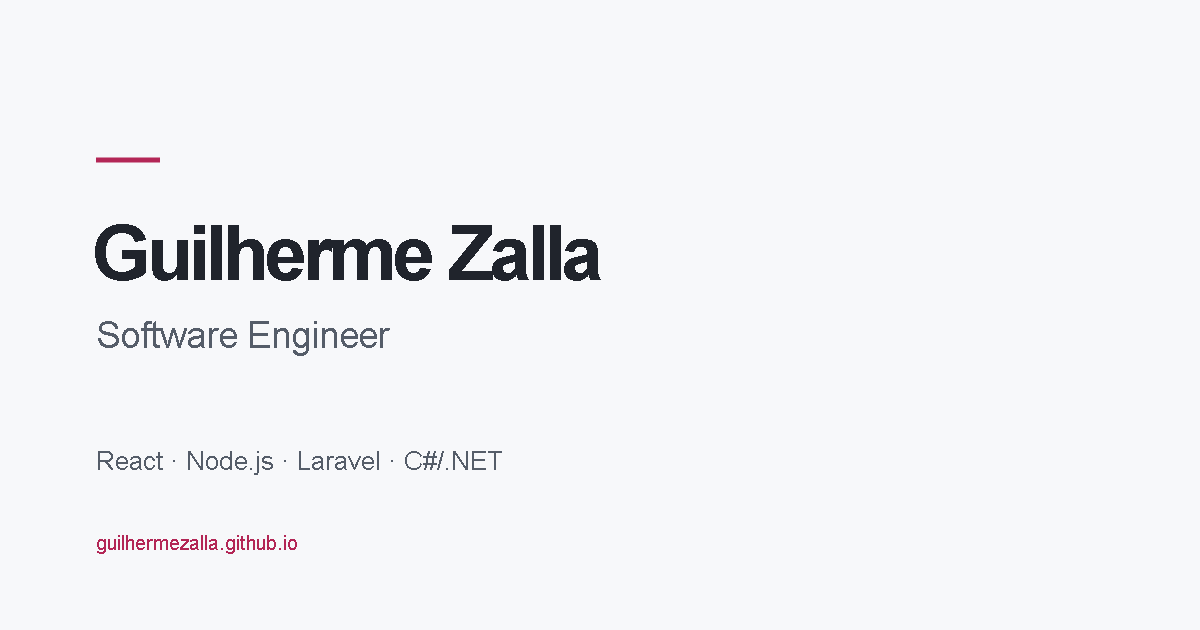
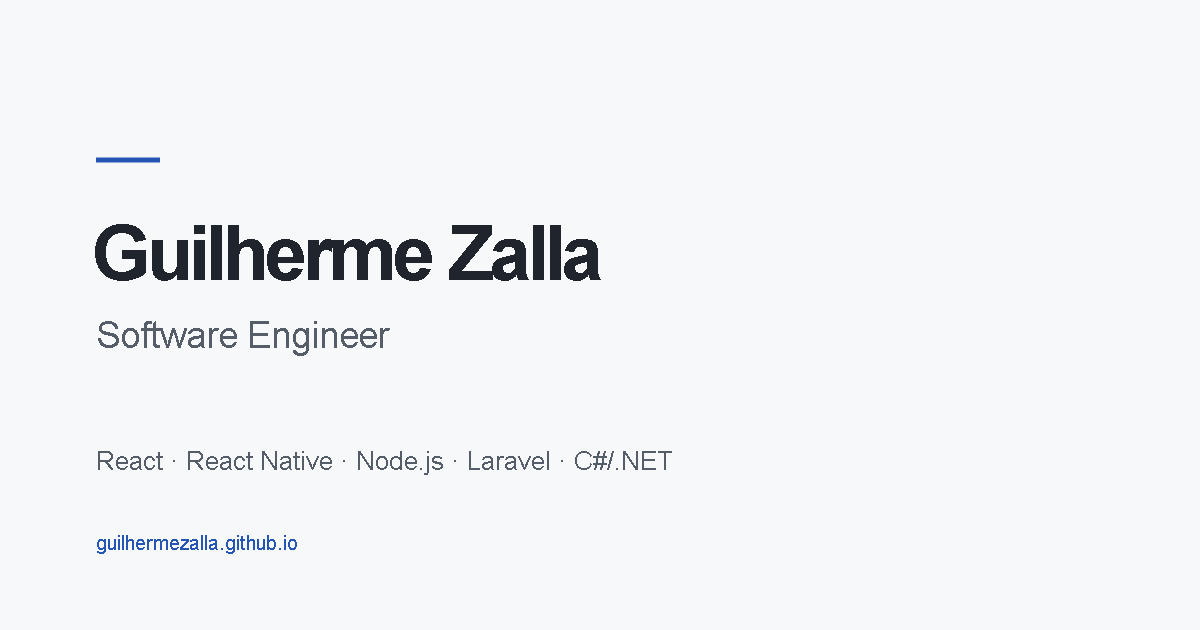
change in the home preview

diff --git a/src/App.test.jsx b/src/App.test.jsx
@@ -1,6 +1,6 @@
 import { existsSync } from 'node:fs';
 import { resolve } from 'node:path';
-import { render, screen, fireEvent, cleanup, waitFor } from '@testing-library/react';
+import { render, screen, fireEvent, cleanup, waitFor, within } from '@testing-library/react';
 import App from './App';
 import i18n from './i18n';
 
@@ -15,8 +15,10 @@ beforeEach(async () => {
 });
 afterEach(() => { cleanup(); vi.unstubAllGlobals(); });
 
-test('shows the four supplied projects in the approved order, with no invented links', () => {
+test('shows the four supplied projects in the approved order, with verified links', () => {
   const { container } = render(<App />);
+  expect(screen.getByText(/web applications with React and mobile apps with React Native/)).toBeTruthy();
+  expect(container.querySelector('.stack-list').textContent).toContain('React Native');
   for (const image of container.querySelectorAll('.project-cover img')) {
     expect(existsSync(resolve('public', image.getAttribute('src').slice(1)))).toBe(true);
   }
@@ -28,12 +30,42 @@ test('shows the four supplied projects in the approved order, with no invented l
   expect(screen.getAllByRole('link', { name: /Download résumé/ })[0].getAttribute('href')).toMatch(/\.pdf(?:\?|$)/);
 });
 
+test('shows Saldoa website and Android preview links on the card and case study', async () => {
+  render(<App />);
+  const saldoaCard = screen.getAllByRole('article').find(article => article.querySelector('h3').textContent === 'Saldoa');
+  expect(within(saldoaCard).getByRole('link', { name: 'Repository' }).getAttribute('href')).toBe('https://github.com/GuilhermeZalla/react-saldoa-app');
+  expect(within(saldoaCard).getByText('2025 web · 2026 app')).toBeTruthy();
+  expect(within(saldoaCard).getByRole('list', { name: 'Saldoa stack' }).textContent).toContain('React Native');
+  expect(within(saldoaCard).getByRole('list', { name: 'Saldoa stack' }).textContent).toContain('Expo');
+  expect(screen.getByRole('link', { name: /Visit website/ }).getAttribute('href')).toBe('https://saldoa-app.duckdns.org');
+  expect(screen.getByRole('link', { name: /Android app preview/ }).getAttribute('href')).toBe('https://github.com/GuilhermeZalla/react-saldoa-app/releases/tag/mobile-v1.0.0-preview.1');
+
+  fireEvent.click(screen.getAllByRole('link', { name: 'Read case study' })[0]);
+  expect(await screen.findByRole('heading', { name: 'Saldoa', level: 1 })).toBeTruthy();
+  expect(screen.getAllByText('2025 web · 2026 app')).toHaveLength(1);
+  expect(screen.getByText(/recurring transactions, exports and a financial dashboard/)).toBeTruthy();
+  expect(screen.getByText(/Android APK is an ARM64 pre-release signed with a debug key/)).toBeTruthy();
+  expect(screen.getByText(/Email delivery for password recovery and account-deletion confirmation is not yet configured/)).toBeTruthy();
+  expect(screen.getByText('Laravel · Sanctum · React · Inertia · TypeScript · Tailwind CSS · Expo · React Native')).toBeTruthy();
+  expect(screen.getByRole('link', { name: /Visit website/ }).getAttribute('href')).toBe('https://saldoa-app.duckdns.org');
+  expect(screen.getByRole('link', { name: /Android app preview/ }).getAttribute('href')).toBe('https://github.com/GuilhermeZalla/react-saldoa-app/releases/tag/mobile-v1.0.0-preview.1');
+
+  fireEvent.click(screen.getByRole('button', { name: 'PT', exact: true }));
+  expect(await screen.findByText('Web 2025 · App 2026')).toBeTruthy();
+  expect(screen.getByText(/O app Android usa React Native e Expo/)).toBeTruthy();
+  expect(screen.getByText(/assinada com chave de depuração, ainda sem distribuição pela Google Play/)).toBeTruthy();
+  expect(screen.getByText(/envio de e-mails para recuperação de senha e confirmação da exclusão da conta ainda não está configurado/)).toBeTruthy();
+  expect(await screen.findByRole('link', { name: /Acessar site/ })).toBeTruthy();
+  expect(screen.getByRole('link', { name: /App Android \(prévia\)/ }).getAttribute('href')).toBe('https://github.com/GuilhermeZalla/react-saldoa-app/releases/tag/mobile-v1.0.0-preview.1');
+});
+
 test('changes the complete interface and document language to Portuguese and saves the choice', async () => {
   render(<App />);
   fireEvent.click(screen.getByRole('button', { name: 'PT', exact: true }));
   expect(await screen.findByRole('heading', { name: 'Projetos em destaque' })).toBeTruthy();
   expect(document.documentElement.lang).toBe('pt-BR');
   expect(localStorage.getItem('portfolio-language')).toBe('pt');
+  expect(screen.getByText(/aplicações web com React e apps mobile com React Native/)).toBeTruthy();
   expect(screen.getByText(/Um aplicativo de finanças pessoais/)).toBeTruthy();
 });
 

diff --git a/index.html b/index.html
@@ -3,7 +3,7 @@
   <head>
     <meta charset="UTF-8" />
     <meta name="viewport" content="width=device-width, initial-scale=1.0" />
-    <meta name="description" content="Guilherme Zalla, Software Engineer. Web applications with React, Node.js, Laravel and C#/.NET, focused on clear interfaces, reliable back ends and tested code." />
+    <meta name="description" content="Guilherme Zalla, Software Engineer. Web apps with React, mobile apps with React Native, and back ends with Node.js, Laravel and C#/.NET." />
     <meta name="theme-color" content="#F7F8FA" />
     <link rel="icon" type="image/svg+xml" href="/favicon.svg" />
     <link rel="apple-touch-icon" sizes="180x180" href="/apple-touch-icon.png" />
@@ -12,19 +12,19 @@
     <link rel="canonical" href="https://guilhermezalla.github.io/" />
     <meta property="og:type" content="website" />
     <meta property="og:title" content="Guilherme Zalla | Software Engineer" />
-    <meta property="og:description" content="Web applications with React, Node.js, Laravel and C#/.NET, focused on clear interfaces, reliable back ends and tested code." />
+    <meta property="og:description" content="Web apps with React, mobile apps with React Native, and back ends with Node.js, Laravel and C#/.NET." />
     <meta property="og:url" content="https://guilhermezalla.github.io/" />
     <meta property="og:site_name" content="Guilherme Zalla" />
     <meta property="og:locale" content="en_US" />
     <meta property="og:image" content="https://guilhermezalla.github.io/social-card.png" />
     <meta property="og:image:width" content="1200" />
     <meta property="og:image:height" content="630" />
-    <meta property="og:image:alt" content="Guilherme Zalla — Software Engineer. React, Node.js, Laravel and C#/.NET." />
+    <meta property="og:image:alt" content="Guilherme Zalla — Software Engineer. React, React Native, Node.js, Laravel and C#/.NET." />
     <meta name="twitter:card" content="summary_large_image" />
     <meta name="twitter:title" content="Guilherme Zalla | Software Engineer" />
-    <meta name="twitter:description" content="Web applications with React, Node.js, Laravel and C#/.NET, focused on clear interfaces, reliable back ends and tested code." />
+    <meta name="twitter:description" content="Web apps with React, mobile apps with React Native, and back ends with Node.js, Laravel and C#/.NET." />
     <meta name="twitter:image" content="https://guilhermezalla.github.io/social-card.png" />
-    <meta name="twitter:image:alt" content="Guilherme Zalla — Software Engineer. React, Node.js, Laravel and C#/.NET." />
+    <meta name="twitter:image:alt" content="Guilherme Zalla — Software Engineer. React, React Native, Node.js, Laravel and C#/.NET." />
     <script>
       // Apply the saved/system theme before rendering to avoid a light flash.
       (() => {

diff --git a/src/data/projects.js b/src/data/projects.js
@@ -1,16 +1,19 @@
 // Years and screenshots were supplied by the author; project facts were supplied or verified.
 export const projects = [
   {
-    id: 'saldoa', name: 'Saldoa', year: 2025, featured: true,
+    id: 'saldoa', name: 'Saldoa', year: 2025, yearLabel: { en: '2025 web · 2026 app', pt: 'Web 2025 · App 2026' }, featured: true,
     type: ['app'],
     languages: ['pt'],
-    stack: ['Laravel', 'React', 'Inertia'],
-    repository: 'https://github.com/GuilhermeZalla/react-saldoa-app', demo: null,
+    stack: ['Laravel', 'Sanctum', 'React', 'Inertia', 'TypeScript', 'Tailwind CSS', 'Expo', 'React Native'],
+    repository: 'https://github.com/GuilhermeZalla/react-saldoa-app',
+    website: 'https://saldoa-app.duckdns.org',
+    androidApp: 'https://github.com/GuilhermeZalla/react-saldoa-app/releases/tag/mobile-v1.0.0-preview.1',
+    demo: null,
     image: '/projects/saldoa-home.svg', preview: '/projects/saldoa-portfolio-cover.svg',
     category: { en: 'Personal finance', pt: 'Finanças pessoais' },
     description: {
-      en: 'A personal finance tracker that helps you follow the money coming in and going out. Record income and expenses, organize everything by category, set monthly limits and see a summary of your finances on the dashboard. A portfolio project built with Laravel, React and Inertia.',
-      pt: 'Um aplicativo de finanças pessoais para acompanhar entradas e saídas. Registre receitas e despesas, organize tudo por categoria, defina limites mensais e veja um resumo das suas finanças no dashboard. Um projeto de portfólio feito com Laravel, React e Inertia.',
+      en: 'A personal finance app for web and Android. Track income and expenses, organize them by category, set monthly limits and review your finances on the dashboard. The Android app is built with React Native and Expo and shares the Laravel backend.',
+      pt: 'Um aplicativo de finanças pessoais para web e Android. Acompanhe receitas e despesas, organize por categoria, defina limites mensais e veja um resumo das finanças no dashboard. O app Android é feito com React Native e Expo e compartilha o backend Laravel.',
     },
   },
   {

diff --git a/src/data/caseStudies.js b/src/data/caseStudies.js
@@ -17,9 +17,9 @@ export const caseStudies = {
         pt: 'Uma interface financeira precisa manter os registros de cada pessoa separados. Verificações de propriedade e validação no servidor são cuidados importantes: as regras de acesso ficam junto aos dados, sem depender apenas dos controles que a interface exibe.',
       } },
       { id: 'result', title: { en: 'Records and a financial overview.', pt: 'Registros e uma visão das finanças.' }, body: {
-        en: 'The project combines income and expense records, categories, monthly limits and a financial dashboard. Its documented stack connects Laravel, React and Inertia in one application.',
-        pt: 'O projeto combina registros de receitas e despesas, categorias, limites mensais e um dashboard financeiro. A stack documentada conecta Laravel, React e Inertia em uma aplicação.',
-      }, limitation: { en: 'This is a portfolio project; no public production demo is currently documented.', pt: 'É um projeto de portfólio; não há uma demo pública de produção documentada no momento.' } },
+        en: 'The web app brings together income and expense records, categories, monthly limits, recurring transactions, exports and a financial dashboard. The Android app uses React Native and Expo with the same Laravel backend.',
+        pt: 'A aplicação web reúne receitas e despesas, categorias, limites mensais, lançamentos recorrentes, exportação e um dashboard financeiro. O app Android usa React Native e Expo com o mesmo backend Laravel.',
+      }, limitation: { en: 'The website is publicly available. The Android APK is an ARM64 pre-release signed with a debug key, not distributed through Google Play. Email delivery for password recovery and account-deletion confirmation is not yet configured.', pt: 'O site está disponível publicamente. O APK Android é uma prévia para ARM64 assinada com chave de depuração, ainda sem distribuição pela Google Play. O envio de e-mails para recuperação de senha e confirmação da exclusão da conta ainda não está configurado.' } },
     ],
   },
   pixelrank: {

diff --git a/src/components/site/ProjectCard.jsx b/src/components/site/ProjectCard.jsx
@@ -15,13 +15,15 @@ export function ProjectCard({ project, index, compact = false }) {
         </>}
       </figure>
       <div className="project-copy">
-        <p className="eyebrow">{String(index + 1).padStart(2, '0')} / {t('projects.type')} · <span aria-label={project.year ? undefined : t('projects.yearPending')}>{project.year ?? '[YEAR]'}</span>{project.languages?.length ? ` · ${project.languages.map(code => code.toUpperCase()).join(' / ')}` : ''}</p>
+        <p className="eyebrow">{String(index + 1).padStart(2, '0')} / {t('projects.type')} · <span aria-label={project.year ? undefined : t('projects.yearPending')}>{project.yearLabel?.[language] ?? project.year ?? '[YEAR]'}</span>{project.languages?.length ? ` · ${project.languages.map(code => code.toUpperCase()).join(' / ')}` : ''}</p>
         <h3 id={`project-${project.id}`}>{project.name}</h3>
         <p>{project.description[language]}</p>
         <ul className="tags" aria-label={`${project.name} stack`}>{project.stack.map(technology => <li key={technology}>{technology}</li>)}</ul>
         <div className="project-links">
           <Link to={`/projects/${project.id}`}>{t('projects.caseStudy')} <span aria-hidden="true">↗</span></Link>
           {project.repository ? <a href={project.repository}>{t('projects.repository')} <span aria-hidden="true">↗</span></a> : <span className="pending">{project.repositoryPlaceholder ?? '[REPOSITORY]'}</span>}
+          {project.website && <a href={project.website}>{t('projects.website')} <span aria-hidden="true">↗</span></a>}
+          {project.androidApp && <a href={project.androidApp}>{t('projects.androidPreview')} <span aria-hidden="true">↗</span></a>}
           {project.demo && <a href={project.demo}>{t('projects.demo')} <span aria-hidden="true">↗</span></a>}
         </div>
       </div>

diff --git a/src/screens/caseStudyScreen.jsx b/src/screens/caseStudyScreen.jsx
@@ -40,9 +40,14 @@ export default function CaseStudyScreen() {
         <p className="case-description">{study.subtitle[language]}</p>
         <dl className="case-meta">
           <div><dt>{t('case.stack')}</dt><dd>{project.stack.join(' · ')}</dd></div>
-          <div><dt>{t('case.year')}</dt><dd aria-label={project.year ? undefined : t('projects.yearPending')}>{project.year ?? '[YEAR]'}</dd></div>
+          <div><dt>{t('case.year')}</dt><dd aria-label={project.year ? undefined : t('projects.yearPending')}>{project.yearLabel?.[language] ?? project.year ?? '[YEAR]'}</dd></div>
         </dl>
-        <div className="actions"><a className="button" href={project.repository}>{t('projects.repository')} ↗</a>{project.demo && <a className="button primary" href={project.demo}>{t('projects.demo')} ↗</a>}</div>
+        <div className="actions">
+          <a className="button" href={project.repository}>{t('projects.repository')} ↗</a>
+          {project.website && <a className="button primary" href={project.website}>{t('projects.website')} ↗</a>}
+          {project.androidApp && <a className="button" href={project.androidApp}>{t('projects.androidPreview')} ↗</a>}
+          {project.demo && <a className="button primary" href={project.demo}>{t('projects.demo')} ↗</a>}
+        </div>
         <figure className={`case-visual${project.id === 'saldoa' ? ' case-visual--full-image' : ''}`}>
           <a className="case-image-link" href={project.image} target="_blank" rel="noreferrer" aria-label={`${t('case.fullImage')}: ${project.name}`}>
             <img src={project.image} alt={t('projects.imageAlt', { name: project.name })} width={project.id === 'saldoa' ? '1920' : '1440'} height={project.id === 'saldoa' ? '1080' : '1000'} decoding="async" />

diff --git a/src/screens/homeScreen.jsx b/src/screens/homeScreen.jsx
@@ -36,7 +36,7 @@ export function HomeScreen() {
       <Header mode={mode} setMode={setMode} />
       <main id="main" className="container" tabIndex="-1">
         <section className="hero" aria-labelledby="hero-title">
-          <p className="eyebrow hero-enter">React · Node.js · Laravel · C#/.NET</p>
+          <p className="eyebrow hero-enter">React · React Native · Node.js · Laravel · C#/.NET</p>
           <h1 id="hero-title" className="hero-enter">Guilherme Zalla</h1>
           <p className="role hero-enter"><TypingRole /></p>
           <p className="intro hero-enter">{t('hero.intro')}</p>

diff --git a/src/data/profile.js b/src/data/profile.js
@@ -12,7 +12,7 @@ export const profile = {
   linkedin: 'https://www.linkedin.com/in/guilhermezalla/',
   whatsapp: 'https://wa.me/5511999423099',
   portraitUrl,
-  stack: ['React', 'Node.js', 'Laravel', 'C# / .NET'],
+  stack: ['React', 'React Native', 'Node.js', 'Laravel', 'C# / .NET'],
   curriculumUrls: {
     en: curriculumUrlEn,
     pt: curriculumUrlPt,

diff --git a/docs/CASE_STUDIES.md b/docs/CASE_STUDIES.md
@@ -17,12 +17,12 @@ Cada página tem quatro seções: problema, decisões técnicas, desafios e resu
 
 | Projeto | Foco do estudo | Limite explicitado |
 | --- | --- | --- |
-| Saldoa | Laravel/Inertia/React, validação e isolamento dos registros financeiros | Projeto de portfólio sem demo pública documentada |
+| Saldoa | Laravel/Inertia/React na Web e React Native/Expo no Android, validação e isolamento dos registros financeiros | Site público; APK Android ARM64 de prévia, ainda sem publicação na Play Store |
 | PixelRank | Blade/Alpine, Policies e tratamento de falhas do IGDB | Novas avaliações dependem do IGDB configurado; sem notificações por WebSocket |
 | Sneakers Store | API Laravel + React, sessão Sanctum e repetição idempotente do checkout | Pagamentos simulados, sem cobrança real ou associação às marcas |
 | MoviesLib | Proxy do TMDB, TanStack Query, Zod e descoberta sem cadastro | Lista local sem sincronização; trailers, não filmes completos; filtros por título limitados à página recebida |
 
-O Saldoa permanece dentro das funcionalidades da descrição fornecida: receitas, despesas, categorias, limites mensais e dashboard. Não foram acrescentadas recorrências, exportação ou outras funcionalidades ao texto do portfólio.
+O Saldoa tem versão Web finalizada em 2025 e app Android adicionado em 2026, compartilhando o backend Laravel. O texto também reflete as funcionalidades documentadas de recorrência e exportação; o APK Android é uma prévia para testes, ainda sem publicação na Play Store.
 
 ## Fontes verificadas
 
@@ -37,7 +37,7 @@ As cópias consultadas estão em references/. Esses documentos não foram execut
 ## Ainda pode ser melhorado
 
 - Acrescentar um relato pessoal real sobre uma decisão ou dificuldade, se o autor desejar. A primeira versão já funciona sem inventar esses relatos.
-- Incluir demos somente quando houver URLs públicas atuais. Os READMEs consultados não documentam uma demo pública atual dos quatro projetos.
+- O Saldoa oferece links para o site público e para a página de release da prévia Android. PixelRank, Sneakers Store e MoviesLib continuam sem demos públicas documentadas.
 - Revisar os textos e fazer a conferência no GitHub Pages depois da publicação.
 - Next Game e Nova Geração ficam fora da Home por decisão do usuário, com os dados preservados para revisão futura.
 
